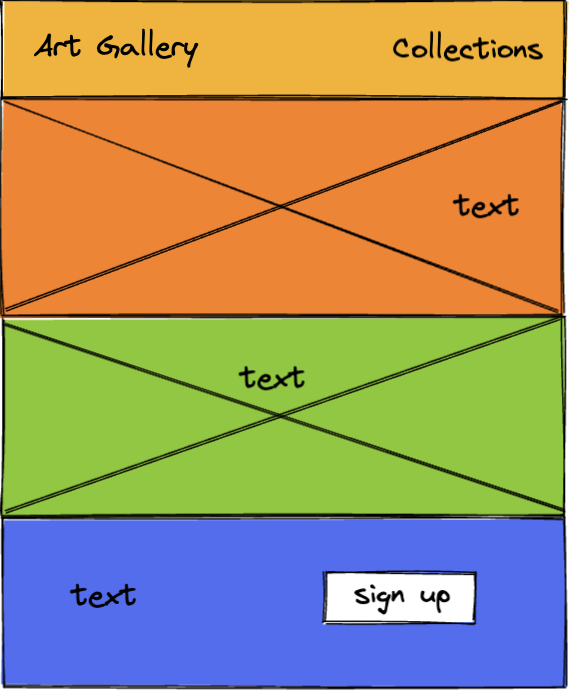
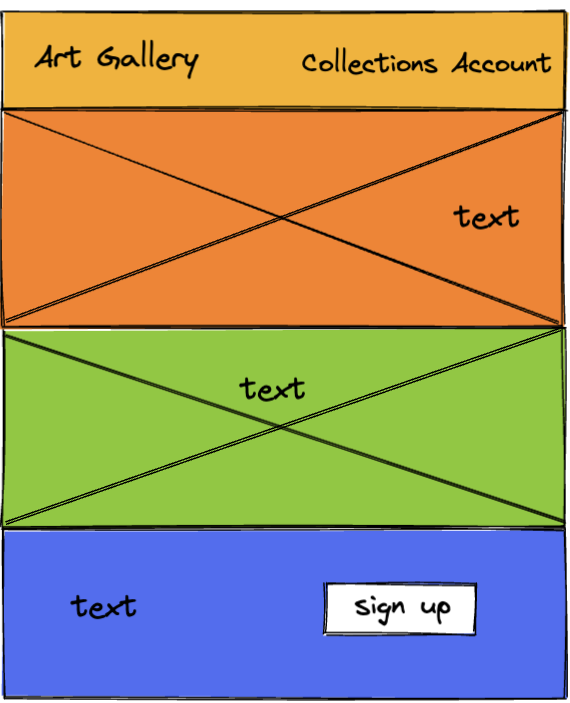
update wireframe

diff --git a/readme.md b/readme.md
@@ -1,20 +1,24 @@
 # Art Collections Website
 
-A mini project for showing art collections, using [The Metropolitan Museum of Art Collection API](https://metmuseum.github.io/).
+A mini React project for showing gallery collections, using [The Metropolitan Museum of Art Collection API](https://metmuseum.github.io/).
 
 ## Wireframe
 
-- Page 1 - Home Page:
+- Home Page:
 
 ![img](https://github.com/YoyoMai98/react_art_collections/blob/main/wireframe/wireframe_p1.png)
 
-- Page 2 - Collections:
+- Collections Page:
 
 ![img](https://github.com/YoyoMai98/react_art_collections/blob/main/wireframe/wireframe_p2.png)
 
-- Page 3 - Sign Up Form:
+- Sign Up Form Page:
 
 ![img](https://github.com/YoyoMai98/react_art_collections/blob/main/wireframe/wireframe_p3.png)
+
+- Account Page:
+
+![img](https://github.com/YoyoMai98/react_art_collections/blob/main/wireframe/wireframe_p4.png)
 
 ## Component Diagram
 
